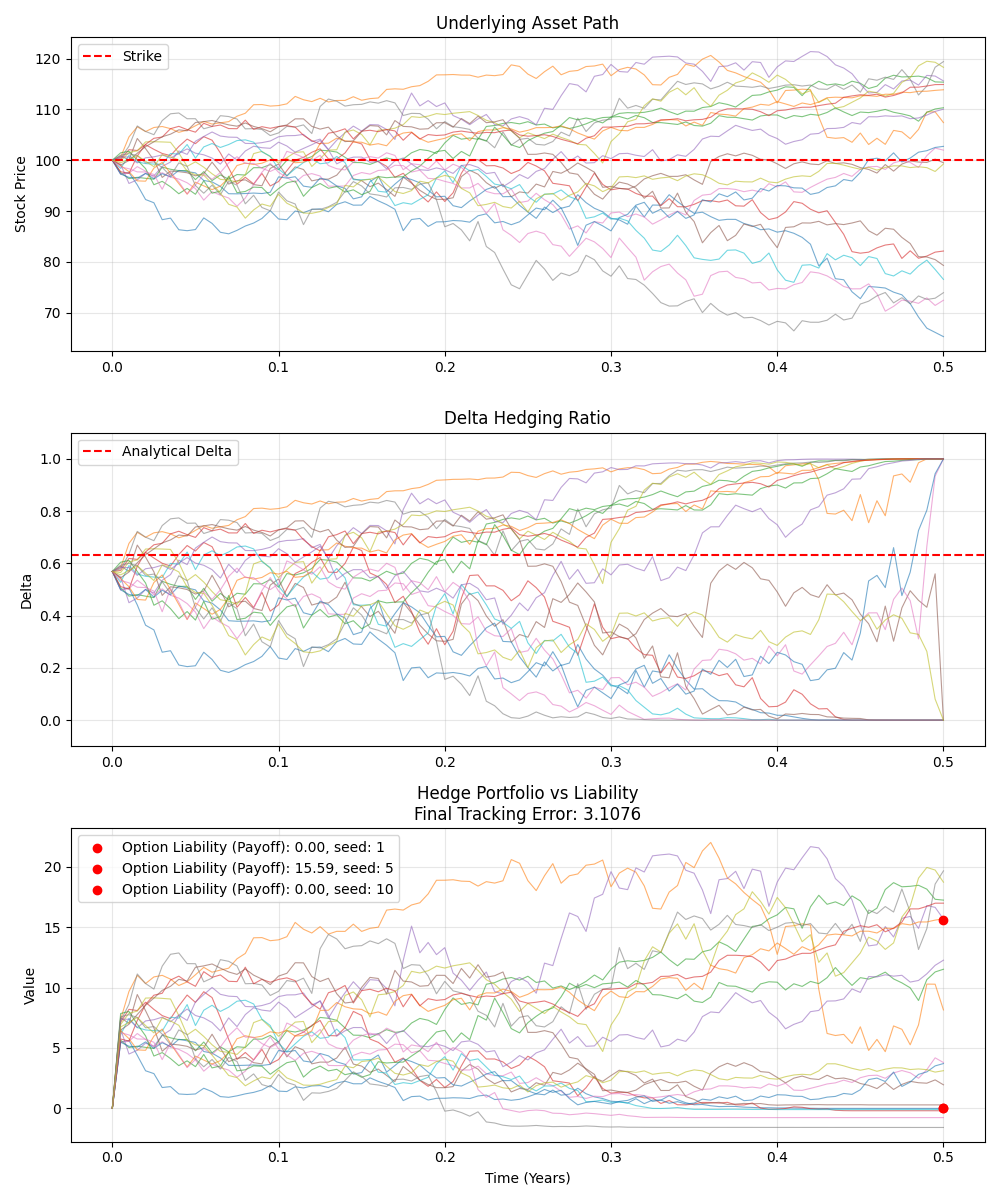
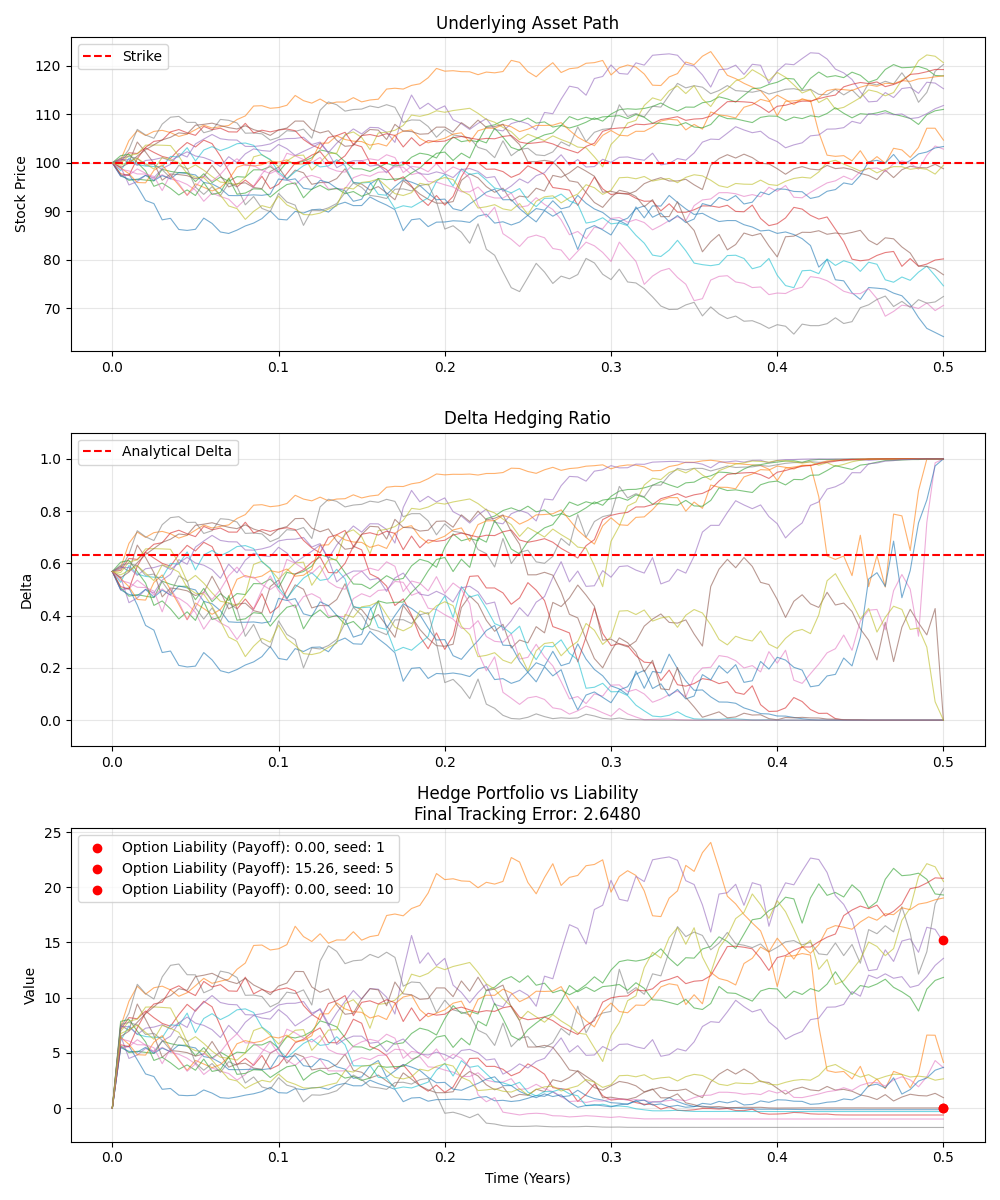
corrected Milstein v equation and changed N_paths

diff --git a/main.py b/main.py
@@ -60,20 +60,20 @@ if __name__ == "__main__":
     print("-"*80)
     
     plotter = HestonPlots()
-    plotter.plot_paths(simulator,N_paths=20, seed=7)
+    plotter.plot_paths(simulator,N_paths=20, seed=42)
 
     # Price options
     print("\n" + "-"*80)
     print("Monte Carlo Pricing")
     print("-"*80)
     
-    N_paths = 10000
+    N_paths = 50000
     print(f"\nUsing {N_paths:,} paths...")
     
-    _,call_price, call_std = simulator.price_option(N_paths, 'call', seed=7)
+    _,call_price, call_std = simulator.price_option(N_paths, 'call', seed=42)
     print(f"\nCall Price: ${call_price:.4f} ± ${1.96*call_std:.4f} (95% CI)")
     
-    _, put_price, put_std = simulator.price_option(N_paths, 'put', seed=7)
+    _, put_price, put_std = simulator.price_option(N_paths, 'put', seed=42)
     print(f"Put Price:  ${put_price:.4f} ± ${1.96*put_std:.4f} (95% CI)")
     
     # Check put-call parity
@@ -91,7 +91,7 @@ if __name__ == "__main__":
     
     print(f"\nEstimating delta with {N_paths:,} paths...")
     start = time.time()
-    delta, delta_std = simulator.estimate_delta_finite_diff(N_paths, 'call', dS=0.01, seed=7)
+    delta, delta_std = simulator.estimate_delta_finite_diff(N_paths, 'call', dS=0.01, seed=42)
     elapsed = time.time() - start
     
     print(f"\nResults:")
@@ -106,8 +106,8 @@ if __name__ == "__main__":
     print("Convergence Study")
     print("-"*80)
     
-    path_counts = [100, 500, 1000, 2500, 5000, 10000]
-    plotter.convergence_study(simulator,path_counts, simulator.params.analytical_delta, seed=7)
+    path_counts = [1000, 5000, 10000, 20000, 35000, 50000]
+    plotter.convergence_study(simulator,path_counts, simulator.params.analytical_delta, seed=42)
     
     plotter.plot_hedging_trajectory(simulator,seed=123)
 

diff --git a/Heston_plots_class.py b/Heston_plots_class.py
@@ -9,7 +9,7 @@ from Heston_MC_class import HestonMonteCarlo
 @dataclass
 class HestonPlots:
 
-    def plot_paths(self,simulator: HestonMonteCarlo, N_paths, seed: int = 7):
+    def plot_paths(self,simulator: HestonMonteCarlo, N_paths, seed: int = 42):
         """
         Plot sample paths of stock price and variance.
         """
@@ -42,7 +42,7 @@ class HestonPlots:
 
 
     def convergence_study(self,simulator: HestonMonteCarlo, path_counts: List[int], 
-                        analytical_delta: float = 0.630402, seed: int = 7):
+                        analytical_delta: float = 0.630402, seed: int = 42):
         """
         Study convergence of Monte Carlo delta estimate.
         """
@@ -153,7 +153,7 @@ class HestonPlots:
 
         return t_grid, S, v, deltas, portfolio_value
 
-    def plot_hedging_trajectory(self,simulator: HestonMonteCarlo, seed=7):
+    def plot_hedging_trajectory(self,simulator: HestonMonteCarlo, seed=42):
     # Run simulation
 
         seeds = [x for x in range(1,20)]

diff --git a/Heston_MC_class.py b/Heston_MC_class.py
@@ -58,9 +58,9 @@ class HestonMonteCarlo:
             v_curr = max(v[i-1],0)
             Z_S = Z[i-1,0]
             Z_v = Z[i-1,1]
-            S[i] = S[i-1] * np.exp((self.params.r-0.5*v_curr)*self.dt + np.sqrt(v_curr*self.dt)*Z_S)
+            S[i] = S[i-1] * np.exp((self.params.r-0.5*v_curr-self.params.q)*self.dt + np.sqrt(v_curr*self.dt)*Z_S)
             v_euler = v_curr+ self.params.kappa * (self.params.theta - v_curr)*self.dt + self.params.sigma*np.sqrt(v_curr * self.dt)*Z_v
-            v[i] = np.maximum(v_euler + self.params.sigma**2 / 4 * (Z_v-1)*self.dt, 0)         
+            v[i] = v_euler + self.params.sigma**2 / 4 * (Z_v**2-1)*self.dt
         
         return t_grid, S, v
     
